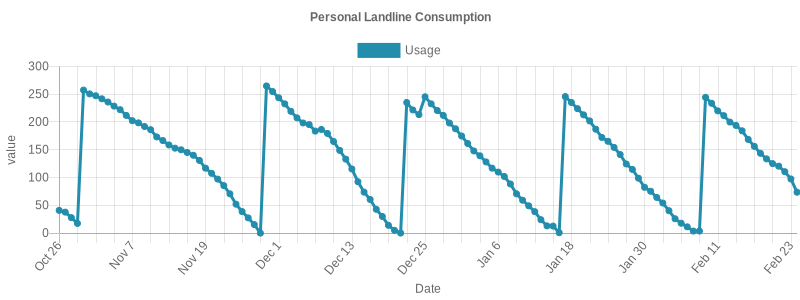
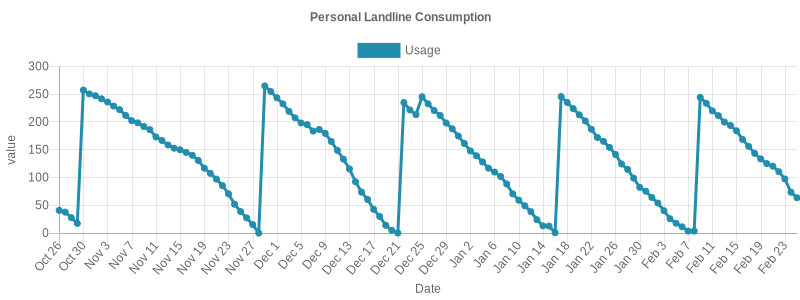
update logs

Changed region(s): [[0.0625, 0.24, 1.0, 0.93], [0.0938, 0.24, 0.1562, 0.75]]

diff --git a/quota-logs/README.md b/quota-logs/README.md
@@ -120,3 +120,4 @@
 ## Thu Feb 22 2024 00:35:32 GMT+0200|110.48/250
 ## Fri Feb 23 2024 00:34:38 GMT+0200|97.4/250
 ## Sat Feb 24 2024 00:35:02 GMT+0200|73.59/250
+## Sun Feb 25 2024 00:35:41 GMT+0200|63.59/250
